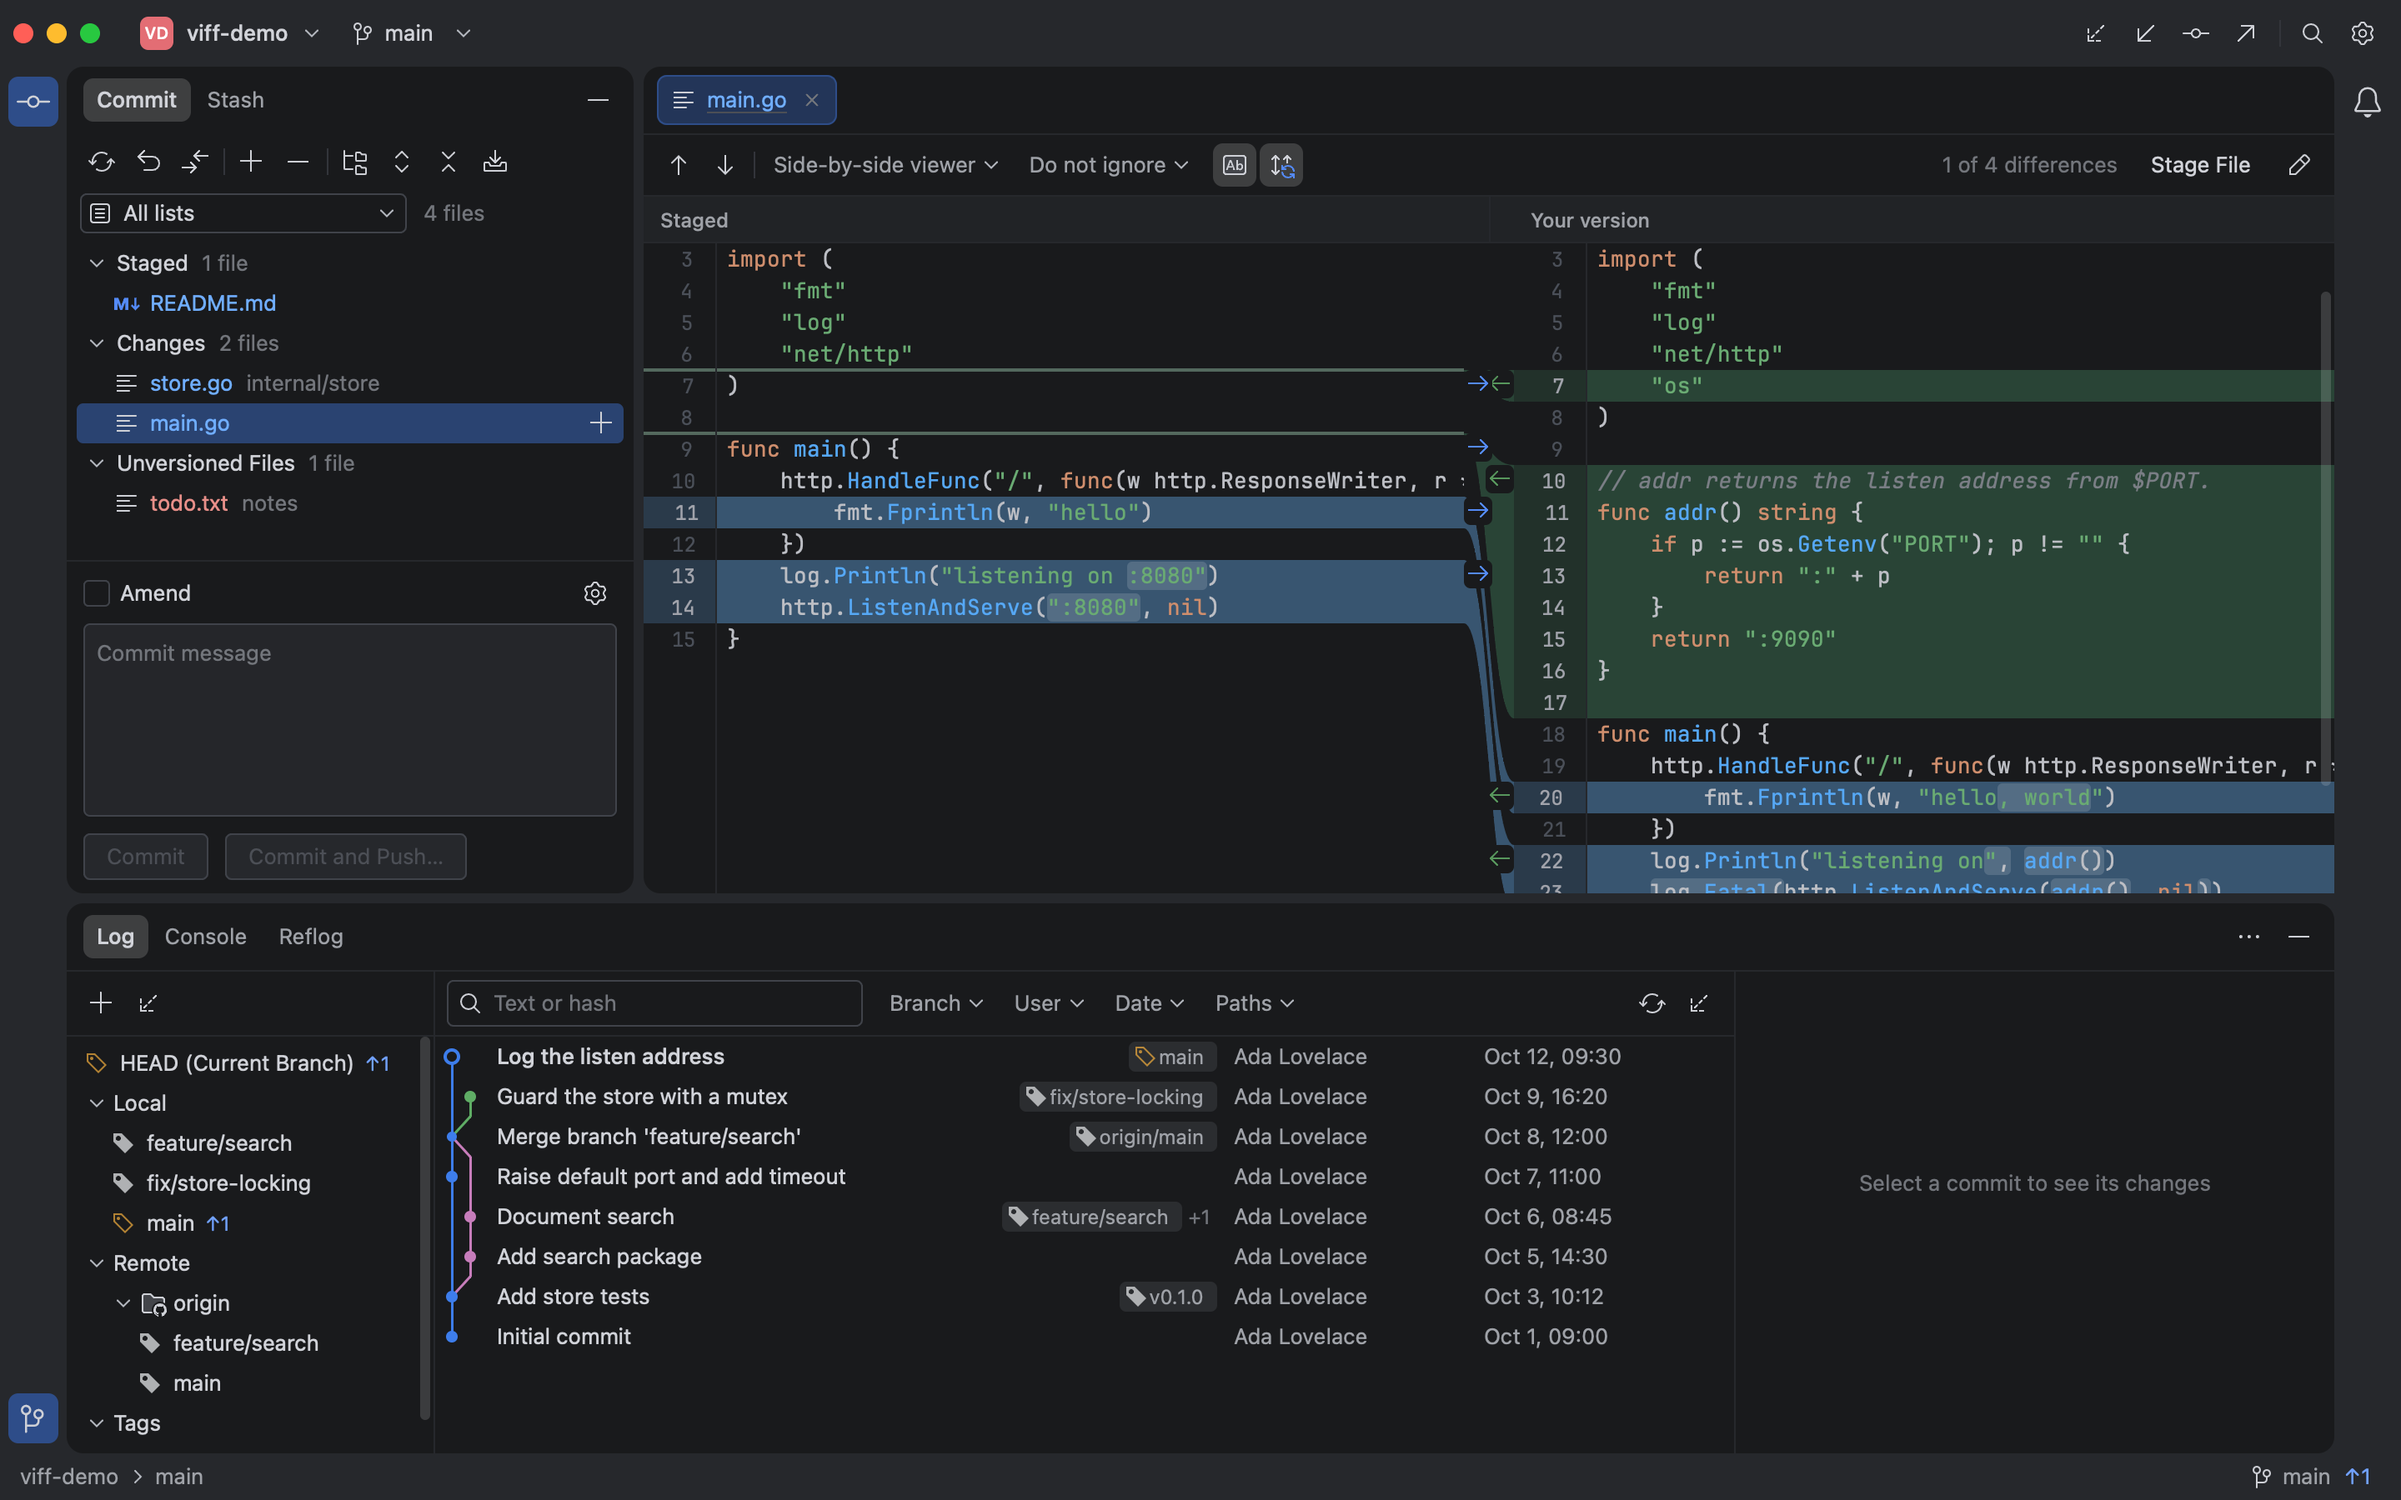
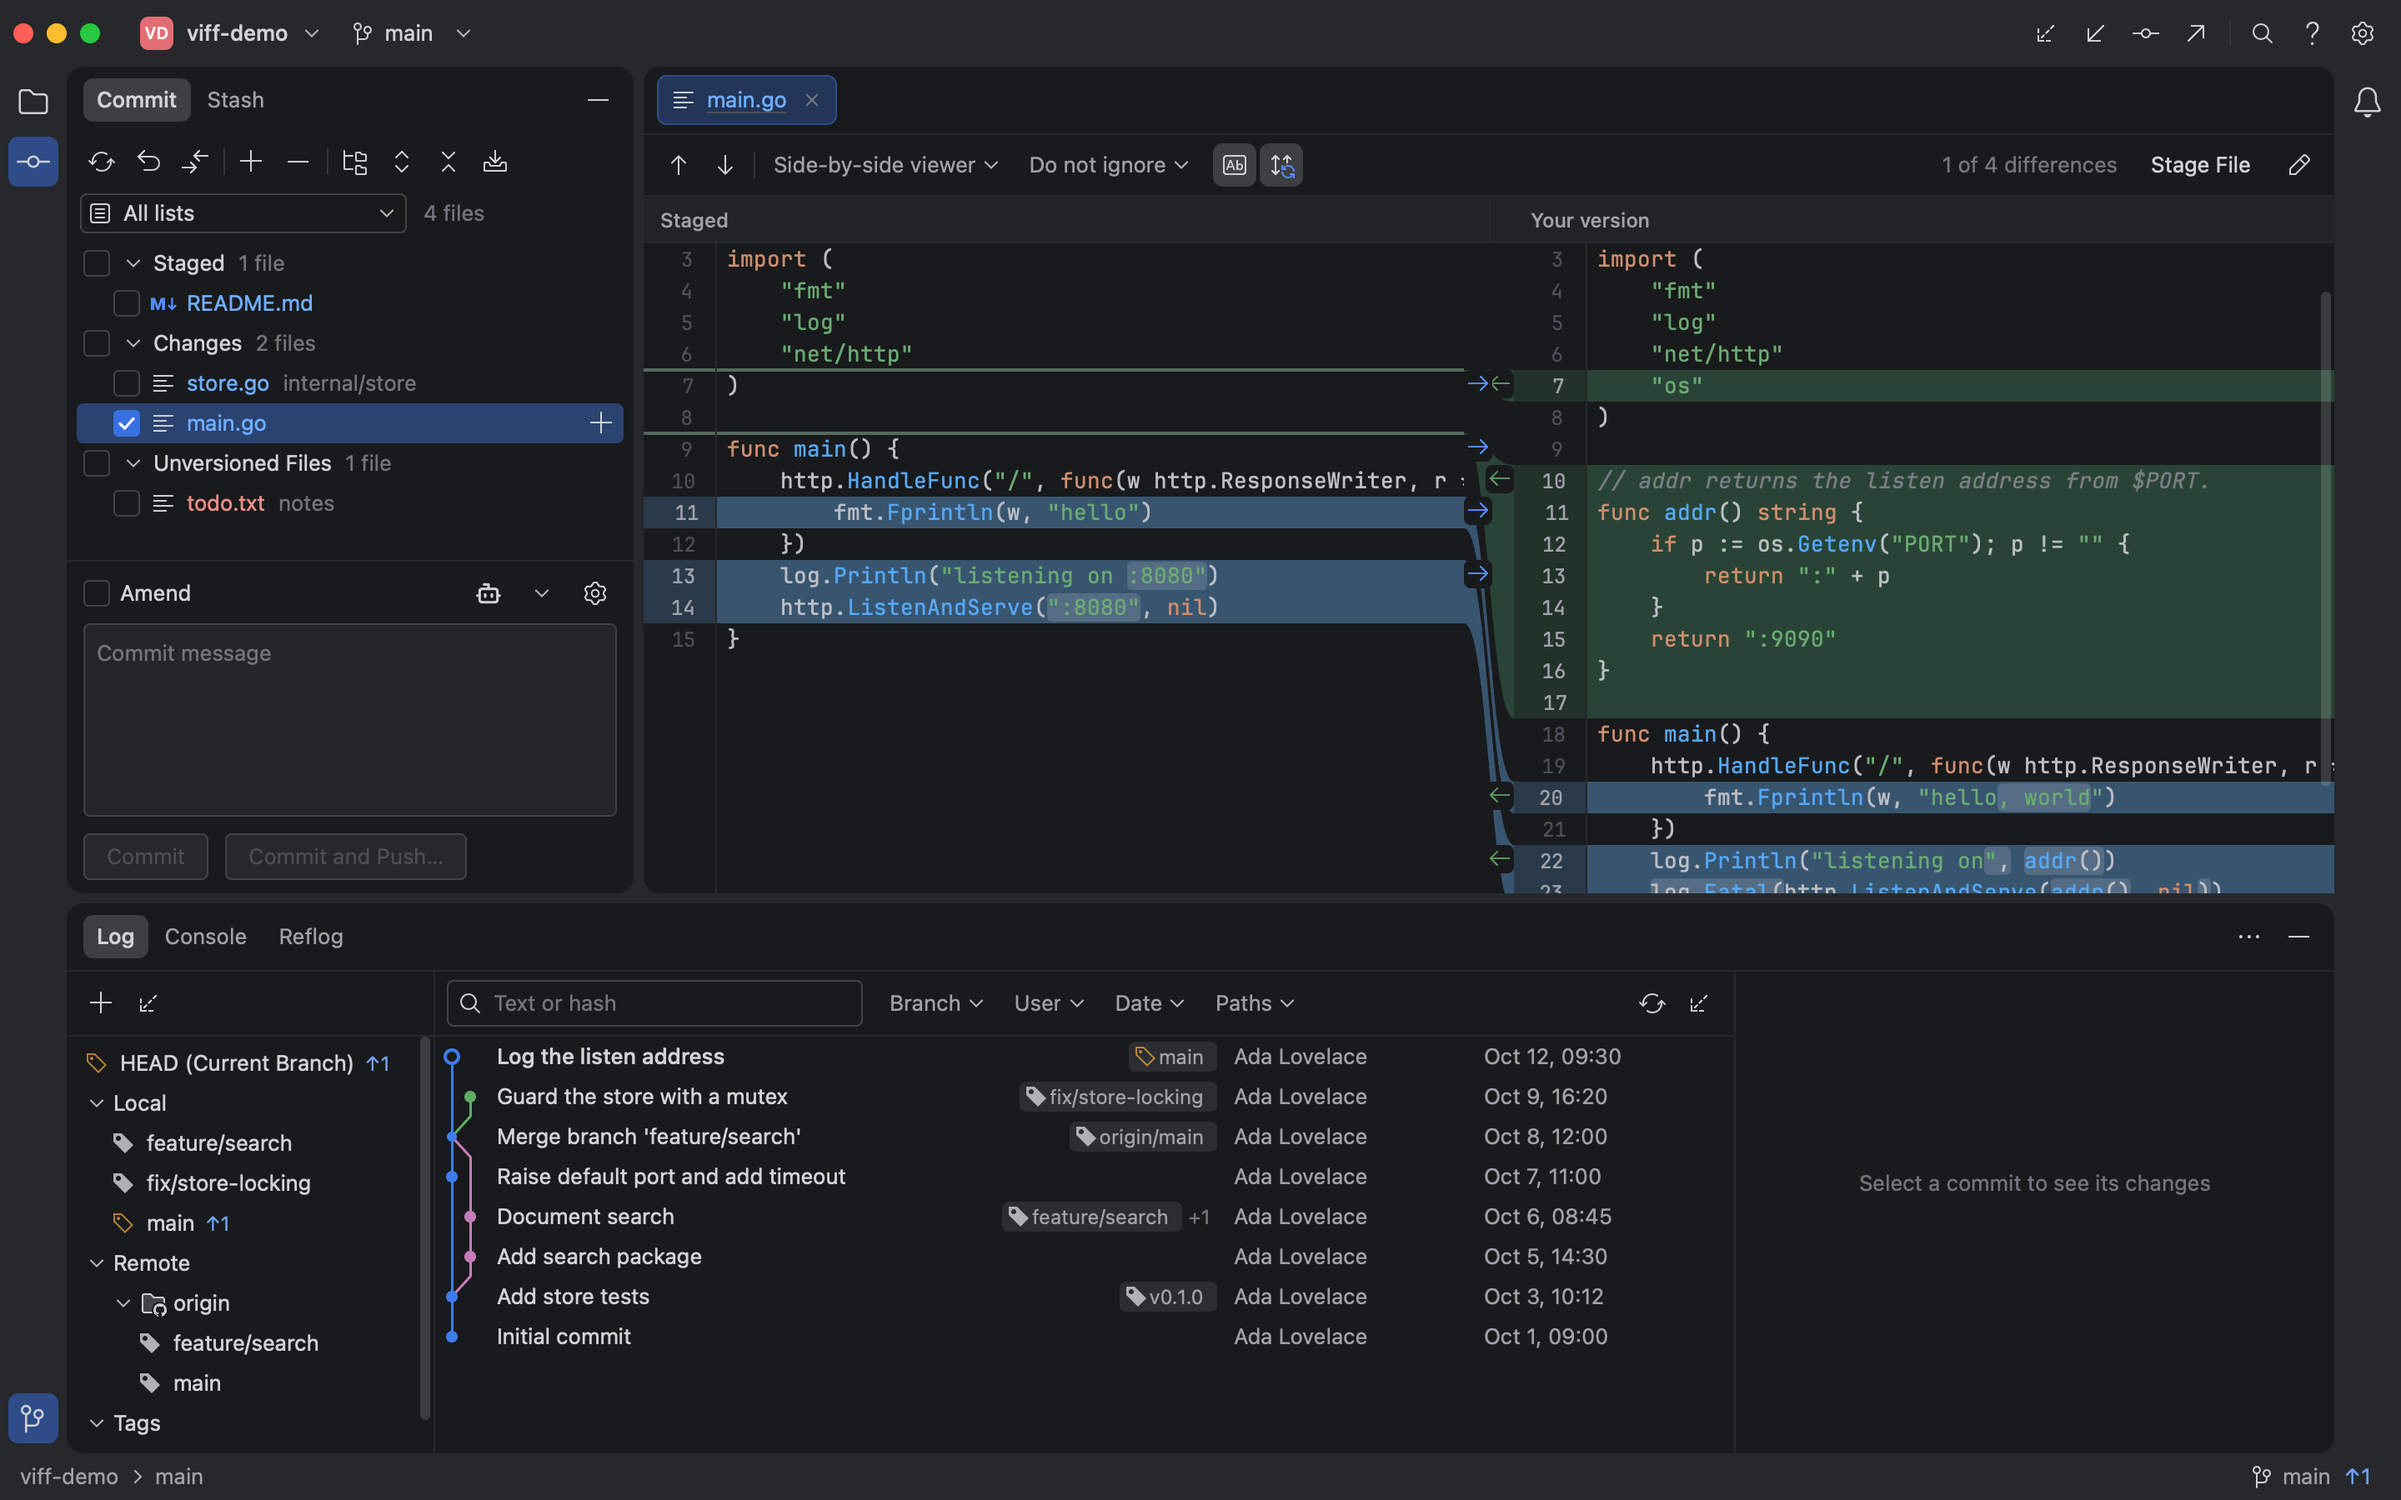
docs: refresh the README features, sizes, and screenshots
The feature table still described the commit panel and the diff before
checkboxes, the fold button, picture previews and the AI message existed,
and it had no row for the language setting. The two screenshots were
taken before those controls shipped.

The size reference was also stale: the v0.1.2 packages carry 11.73 MiB
on macOS arm64 and 13.15 MiB on Windows amd64, measured from the
published DMG and ZIP rather than an older local build.

Changed region(s): [[0.0312, 0.1556, 0.1562, 0.3422], [0.0, 0.0311, 0.0312, 0.1244]]

diff --git a/README.md b/README.md
@@ -18,7 +18,7 @@ Go + Viva. No Electron. No WebView. No bundled browser.
 
 </div>
 
-![Viff in dark mode: line staging, side-by-side diff, and commit history](docs/screenshots/diff-dark.png)
+![Viff in dark mode: checked changes, a side-by-side diff, and commit history](docs/screenshots/diff-dark.png)
 
 ## Keep the tool lightweight. Keep the workflow complete.
 
@@ -31,10 +31,10 @@ browser engine, and runs your installed Git executable.
 - **Git stays Git:** use your repositories, remotes, hooks, and configured credentials. Inspect executed commands and output in the Console.
 - **Work is loaded as needed:** paginated history and on-demand diffs keep large repositories from becoming a single eager load.
 
-For a concrete size reference, stripped Go 1.27.3 builds on November 4, 2026
-were **7.37 MiB on macOS arm64** and **7.65 MiB on Windows amd64**
-(`-trimpath -ldflags="-s -w"`, executable only). Archive size, installed Git,
-and runtime memory are separate measurements.
+For a concrete size reference, the executables inside the v0.1.2 packages on
+November 5, 2026 were **11.73 MiB on macOS arm64** and **13.15 MiB on Windows
+amd64** (`-trimpath -ldflags="-s -w"`, executable only). Archive size,
+installed Git, and runtime memory are separate measurements.
 
 Lightweight is a design goal, not an unmeasured performance claim. Memory usage
 and startup time vary with the repository, platform, and renderer; no comparative
@@ -54,17 +54,18 @@ periodically; if it no longer works, open an issue and we will refresh it.</sub>
 
 ## A full Git workflow
 
-| Work                  | What Viff provides                                                                                                   |
-| --------------------- | -------------------------------------------------------------------------------------------------------------------- |
-| Review changes        | Side-by-side and unified diffs, syntax and word highlighting, search, synchronized scrolling, and multiple tabs      |
-| Build a commit        | Stage files, hunks, or selected lines; unstage, roll back, amend, sign off, and commit/push                          |
-| Organize work         | Multiple repositories, per-repository commit drafts, directory grouping, and named ChangeLists                       |
-| Read history          | Commit graph, branch/author/path filters, multi-commit changed-file views, blame, reflog, and revision tree browsing |
-| Browse files          | Project tool window with folders, status colours, Quick Open, read-only viewing, blame, and file history |
-| Manage branches       | Checkout, merge, rebase, cherry-pick, revert, reset, and stash-assisted checkout                                     |
-| Resolve conflicts     | Ours / Result / Theirs views, per-block Ours/Theirs/Both actions, and explicit mark-as-resolved                      |
-| Work across checkouts | Create worktrees from new or existing branches; manage submodules with dirty-work protection                         |
-| Exchange changes      | Fetch, pull, push, force-with-lease, remotes, patches, and signing/credential settings                               |
+| Work                  | What Viff provides                                                                                                                                            |
+| --------------------- | ------------------------------------------------------------------------------------------------------------------------------------------------------------- |
+| Review changes        | Side-by-side and unified diffs, syntax and word highlighting, search, synchronized scrolling, tabs, and picture previews                                      |
+| Build a commit        | Check files, folders, or groups; stage files, hunks, or lines; roll back, amend, sign off, and commit/push; fold the editor or write the message with a model |
+| Organize work         | Multiple repositories, per-repository commit drafts, directory grouping, and named ChangeLists                                                                |
+| Read history          | Commit graph, branch/author/path filters, multi-commit changed-file views, blame, reflog, and revision tree browsing                                          |
+| Browse files          | Project tool window with folders, status colours, Quick Open, read-only viewing, blame, and file history                                                      |
+| Manage branches       | Checkout, merge, rebase, cherry-pick, revert, reset, and stash-assisted checkout                                                                              |
+| Resolve conflicts     | Ours / Result / Theirs views, per-block Ours/Theirs/Both actions, and explicit mark-as-resolved                                                               |
+| Work across checkouts | Create worktrees from new or existing branches; manage submodules with dirty-work protection                                                                  |
+| Exchange changes      | Fetch, pull, push, force-with-lease, remotes, patches, and signing/credential settings                                                                        |
+| Work in your language | English and Simplified Chinese interface, English by default, switchable in Settings                                                                          |
 
 **The interface is English by default; switch it to Simplified Chinese in
 Settings → General → Language.**
@@ -72,6 +73,10 @@ Settings → General → Language.**
 **ChangeLists group files; they do not create separate Git indexes.** A commit
 includes **all staged files**, even when a list filter is active. Filtered bulk
 staging only stages visible files.
+
+**AI commit messages are optional and off by default.** When enabled, the changed
+files and their diffs are sent to the endpoint you configure; see the
+[privacy guide](docs/privacy.md).
 
 <details>
 <summary>Light theme</summary>

diff --git a/README.zh-CN.md b/README.zh-CN.md
@@ -18,7 +18,7 @@ Go + Viva。无需 Electron，无需 WebView，不捆绑浏览器运行时。
 
 </div>
 
-![Viff 深色界面：逐行暂存、并排 Diff 与提交历史](docs/screenshots/diff-dark.png)
+![Viff 深色界面：勾选的变更、并排 Diff 与提交历史](docs/screenshots/diff-dark.png)
 
 ## 让工具轻一点，让工作流完整一点
 
@@ -31,8 +31,8 @@ Viff 将工作区、代码差异和提交历史放进一个原生桌面窗口。
 - **沿用你的 Git**：使用现有仓库、远端、钩子及凭据配置，在 Console 中查看实际执行的命令和输出。
 - **按需加载**：历史分页读取，Diff 按需打开，避免启动时把大仓库的全部内容一次加载进来。
 
-作为可复现的体积参考：2026 年 11 月 4 日，使用 Go 1.27.3 构建并去除调试符号后，
-**macOS arm64 可执行文件为 7.37 MiB，Windows amd64 为 7.65 MiB**
+作为可复现的体积参考：2026 年 11 月 5 日发布的 v0.1.2 安装包中，
+**macOS arm64 可执行文件为 11.73 MiB，Windows amd64 为 13.15 MiB**
 （`-trimpath -ldflags="-s -w"`，仅统计可执行文件）。压缩包大小、本机 Git 和运行内存不在这个数字内。
 
 “轻量”是设计目标，不是未经测量的性能承诺。实际内存与启动耗时取决于仓库、平台和渲染环境，
@@ -50,22 +50,26 @@ Viff 将工作区、代码差异和提交历史放进一个原生桌面窗口。
 
 ## 轻量，也能覆盖完整的 Git 工作流
 
-| 场景       | 功能                                                                      |
-| ---------- | ------------------------------------------------------------------------- |
-| 查看改动   | 并排 / 统一 Diff、语法与词级高亮、搜索、同步滚动、多页签                  |
-| 整理提交   | 按文件、块或选中行暂存，取消暂存、回滚、Amend、Sign-off、提交并推送       |
-| 管理工作区 | 多仓库、各仓库独立提交草稿、目录分组、命名 ChangeList                     |
-| 阅读历史   | 提交图、分支 / 作者 / 路径筛选、多提交文件汇总、Blame、Reflog、历史仓库树 |
-| 浏览文件   | Project 面板（目录折叠、状态着色）、Quick Open、只读查看、Blame 与文件历史 |
-| 操作分支   | Checkout、Merge、Rebase、Cherry-pick、Revert、Reset、借助 Stash 切换分支  |
-| 解决冲突   | Ours / Result / Theirs 三栏，逐块接受 Ours / Theirs / Both，显式标记解决  |
-| 多工作目录 | 从新分支或已有分支创建 Worktree，管理子模块，保护未提交改动               |
-| 同步协作   | Fetch、Pull、Push、force-with-lease、远端、补丁、签名与凭据设置           |
+| 场景       | 功能                                                                                                                              |
+| ---------- | --------------------------------------------------------------------------------------------------------------------------------- |
+| 查看改动   | 并排 / 统一 Diff、语法与词级高亮、搜索、同步滚动、多页签、图片预览                                                                |
+| 整理提交   | 按文件、目录或整组勾选后暂存，也可按块或选中行暂存；取消暂存、回滚、Amend、Sign-off、提交并推送；说明区可折叠，也可让模型生成说明 |
+| 管理工作区 | 多仓库、各仓库独立提交草稿、目录分组、命名 ChangeList                                                                             |
+| 阅读历史   | 提交图、分支 / 作者 / 路径筛选、多提交文件汇总、Blame、Reflog、历史仓库树                                                         |
+| 浏览文件   | Project 面板（目录折叠、状态着色）、Quick Open、只读查看、Blame 与文件历史                                                        |
+| 操作分支   | Checkout、Merge、Rebase、Cherry-pick、Revert、Reset、借助 Stash 切换分支                                                          |
+| 解决冲突   | Ours / Result / Theirs 三栏，逐块接受 Ours / Theirs / Both，显式标记解决                                                          |
+| 多工作目录 | 从新分支或已有分支创建 Worktree，管理子模块，保护未提交改动                                                                       |
+| 同步协作   | Fetch、Pull、Push、force-with-lease、远端、补丁、签名与凭据设置                                                                   |
+| 使用母语   | 界面支持英文与简体中文，默认英文，可在 设置 → General → Language 切换                                                             |
 
 **界面默认英文，可在 设置 → General → Language 切到简体中文。**
 
 **ChangeList 是文件分组，不是独立的 Git 索引。** 即使开启清单筛选，提交仍包含
 **全部已暂存文件**；筛选后的批量暂存只处理可见文件。
+
+**AI 生成提交说明是可选的，默认关闭。** 启用后会把变更文件与 diff 发送到你自己配置的端点，
+边界见[隐私说明](docs/privacy.md)。
 
 <details>
 <summary>查看浅色主题</summary>
